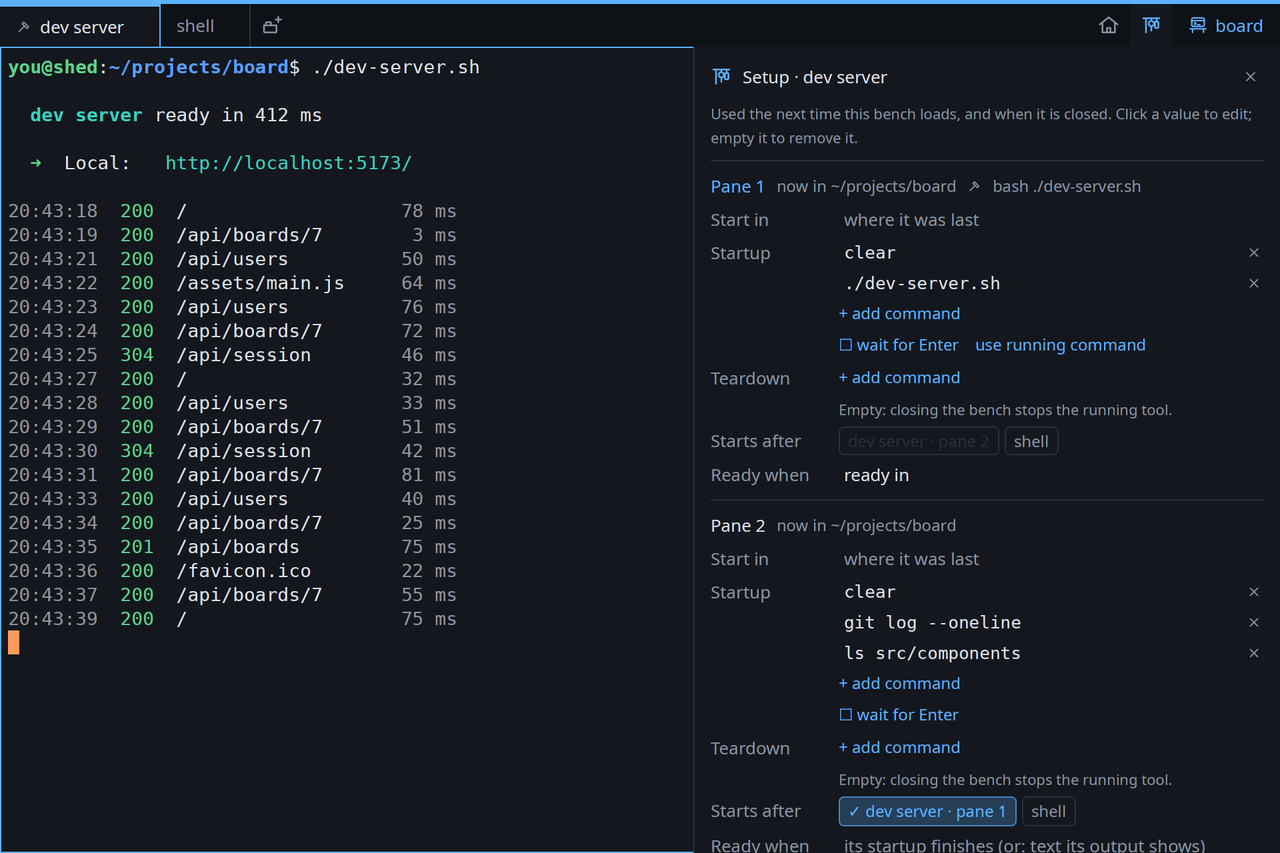
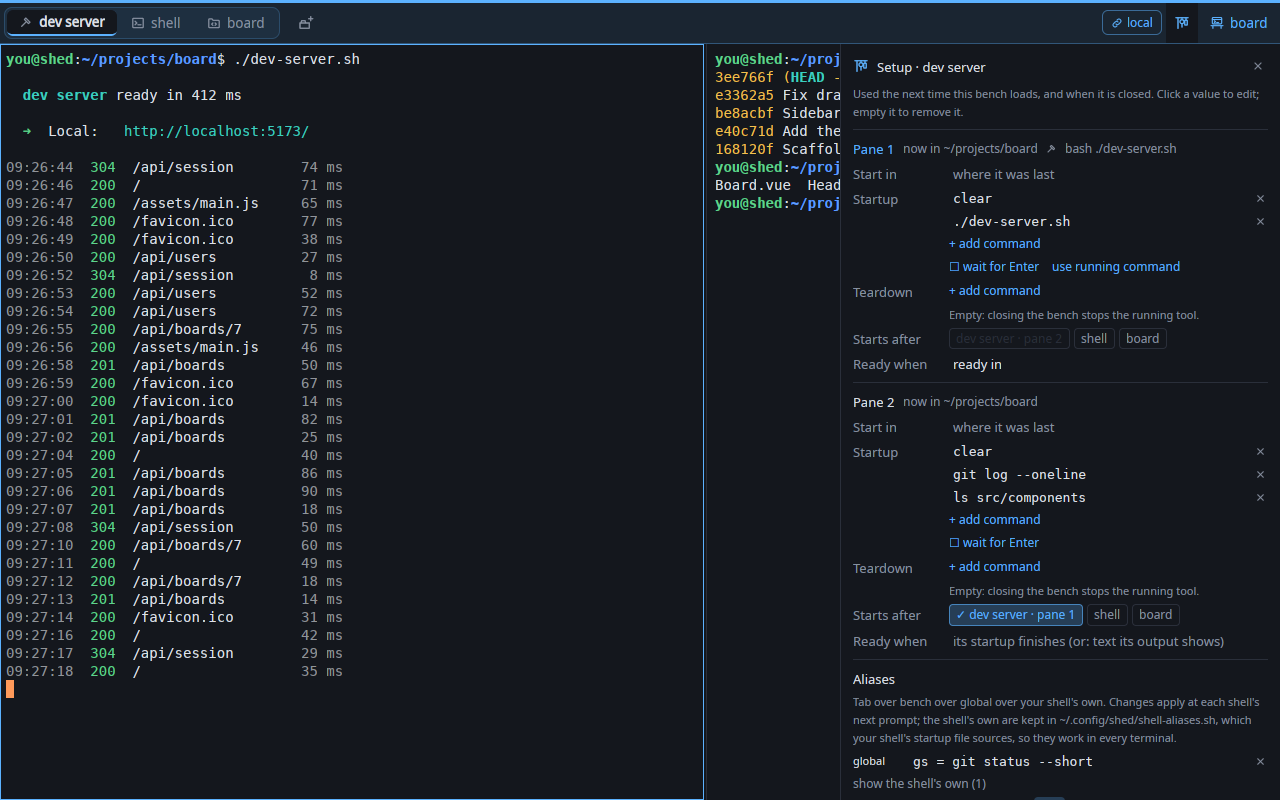
Screenshots taken headless, with project and AI tabs
- tools/screenshots/take.sh runs the demo Shed on a virtual X display of
  its own (Xvfb, 2× density, software Vulkan): nothing on the user's
  screen, input untouched; panels opened by keys sent to that display
- The demo world has project tabs (one with Git changes), an AI tab on a
  made-up Claude Code session in the demo home, usage limits, and windows
  placed side by side (no window manager)
- New images: project.png and ai.png, in the README and the user guide;
  shed, bench, setup, logbook and find retaken
- xtype.py gives a window focus itself only on take.sh's own display

diff --git a/tools/screenshots/xtype.py b/tools/screenshots/xtype.py
@@ -22,6 +22,14 @@ xtst.XTestFakeButtonEvent.argtypes = [ctypes.c_void_p, ctypes.c_uint, ctypes.c_i
 
 d = x11.XOpenDisplay(None)
 target = int(sys.argv[1], 16)
+# On take.sh's own virtual display (no window manager, nobody else on it) the
+# window is given focus here; anywhere else it must already have it.
+import os
+x11.XSetInputFocus.argtypes = [ctypes.c_void_p, ctypes.c_ulong, ctypes.c_int, ctypes.c_ulong]
+if os.environ.get("SHED_SHOTS_DISPLAY") and os.environ.get("SHED_SHOTS_DISPLAY") == os.environ.get("DISPLAY"):
+    x11.XSetInputFocus(d, target, 2, 0)
+    x11.XFlush(d)
+    time.sleep(0.1)
 info = subprocess.run(["xwininfo", "-id", hex(target)], capture_output=True, text=True).stdout
 ox = int(re.search(r"Absolute upper-left X:\s+(-?\d+)", info).group(1))
 oy = int(re.search(r"Absolute upper-left Y:\s+(-?\d+)", info).group(1))

diff --git a/docs/development.md b/docs/development.md
@@ -89,12 +89,18 @@ cargo clippy --all-targets
 
 ## Screenshots and icons
 
-`tools/screenshots/take.sh` (X11, `wmctrl`, `ffmpeg`) builds a demo world with a
-neutral prompt and a few benches (`demo-world.sh`), runs a separate Shed in it, and
-writes the screenshots in `docs/images/`. Run it from the repository root after
-`cargo build`; with `INTERACTIVE=1` it also opens menus and panels for their
-screenshots, clicking and typing into its own windows only (it stops if they lose
-focus).
+`tools/screenshots/take.sh` builds a demo world (`demo-world.sh`: a neutral
+prompt, a few projects with Git history and changes, benches with terminal,
+project and AI tabs, a made-up Claude Code session in the demo home, usage limits),
+runs a separate Shed in it on a virtual X display of its own (Xvfb, at 2× density,
+with Mesa's software Vulkan), and writes the screenshots in `docs/images/`. Nothing
+shows on your screen and your input is untouched, so it can run while you work.
+Panels are opened with keys sent to that display only (`xtype.py`); the mouse does
+not reach GPUI there (Xvfb has no XInput pointer of its own), so the two menu
+screenshots (`colours.png`, `tab-menu.png`) are not retaken. Needs Xvfb (`XVFB=`
+its path when not installed: `apt-get download xvfb` and `dpkg-deb -x` give one
+without root), `xrdb`, `xwininfo`, `xwd`, `ffmpeg` and Python's PIL. Run it from the
+repository root after `cargo build`.
 
 `cargo run -p shed-desktop --example icon_preview -- sheet.png [template.svg]` draws a
 sheet of the bench icon in every colour, at launcher and Dock sizes, on dark and

diff --git a/CLAUDE.md b/CLAUDE.md
@@ -45,9 +45,11 @@ export SHED_RUNTIME_DIR=/tmp/shed-dev XDG_CONFIG_HOME=/tmp/shed-dev/config \
 - Find dev windows by owning PID (process env `SHED_RUNTIME_DIR`), never by title.
 - Stop Shed instances with the scoped `shed stop`, not `pkill`/`kill`.
 - Don't send synthetic input or raise windows while the user is at the keyboard.
-- `tools/screenshots/take.sh` builds a demo world (fake projects, prompt `you@shed`)
-  and retakes `docs/images/*.png`; `INTERACTIVE=1` also clicks/types into its own
-  windows for menu screenshots. Screenshots must not show usernames or hostnames.
+- `tools/screenshots/take.sh` builds a demo world (fake projects, prompt `you@shed`,
+  a made-up Claude session) and retakes `docs/images/*.png` headless, on its own
+  Xvfb display (`XVFB=~/.cache/shed-dev/xvfb/root/usr/bin/Xvfb` on this machine), so
+  it is safe while the user works. Keys reach that display; mouse clicks do not.
+  Screenshots must not show usernames or hostnames.
 - Logs: `$XDG_STATE_HOME/shed/shedd.log`; `SHED_LOG=debug`; `shedd --foreground`.
 
 ## Architecture

diff --git a/docs/user-guide.md b/docs/user-guide.md
@@ -189,6 +189,8 @@ A **project tab** holds a folder of code instead of terminals. It is marked with
 folder icon in the bench's colour, in the tab bar and on its card in Shed, and it
 is saved and loaded with the bench like any other tab.
 
+![A project tab: the file tree, open files, the branch and its changes](images/project.png)
+
 To open one:
 
 - right-click the **new tab** button, or the bench's name, and choose **New Project
@@ -325,6 +327,8 @@ An **AI tab** is a [Claude Code](https://claude.com/claude-code) conversation wi
 an interface of its own: Claude Code does the work, Shed shows it. It works in one
 folder (where Claude Code keeps its sessions) and can be given the bench's other
 project folders too.
+
+![An AI tab: sessions on the left, the conversation with its steps, the usage limits on the tab bar](images/ai.png)
 
 To open one: **Ask AI** in a project tab's header (it goes to that project's AI
 tab, or opens one), **New AI Tab** in the new-tab button's menu or the bench's

diff --git a/docs/workbench-plan.md b/docs/workbench-plan.md
@@ -327,8 +327,8 @@ Remote tabs (9) and links (8) depend on little else and can move earlier.
   Ours / Theirs / Both).
 - Blame in the editor's gutter (now: for the cursor's line, in the status bar).
 - The AI tab's prompt folding large pastes into a chip, and a prompt library.
-- Screenshots of the new tabs in the user guide (those there predate project,
-  AI and remote tabs; `tools/screenshots/take.sh` retakes them).
+- The two menu screenshots (`colours.png`, `tab-menu.png`) predate the new tabs:
+  the headless `take.sh` cannot click (no XInput pointer on Xvfb).
 - AI tab hover redraws: each entry has its own view, but they all read the
   `AiView`, which GPUI marks dirty with any child; moving the conversation's
   state into a model of its own would let a hover redraw one entry only.

diff --git a/README.md b/README.md
@@ -36,6 +36,10 @@ bench and tab at a glance, and is where you make, open, hide and close them.
 
 ![A bench: a dev server and a shell side by side](docs/images/bench.png)
 
+![An AI tab: a Claude Code conversation, its steps, and the usage limits](docs/images/ai.png)
+
+![A project tab: files, the editor, and the branch with its changes](docs/images/project.png)
+
 ## Highlights
 
 - **Nothing stops when a window closes.** Hide a bench and it keeps running; open
